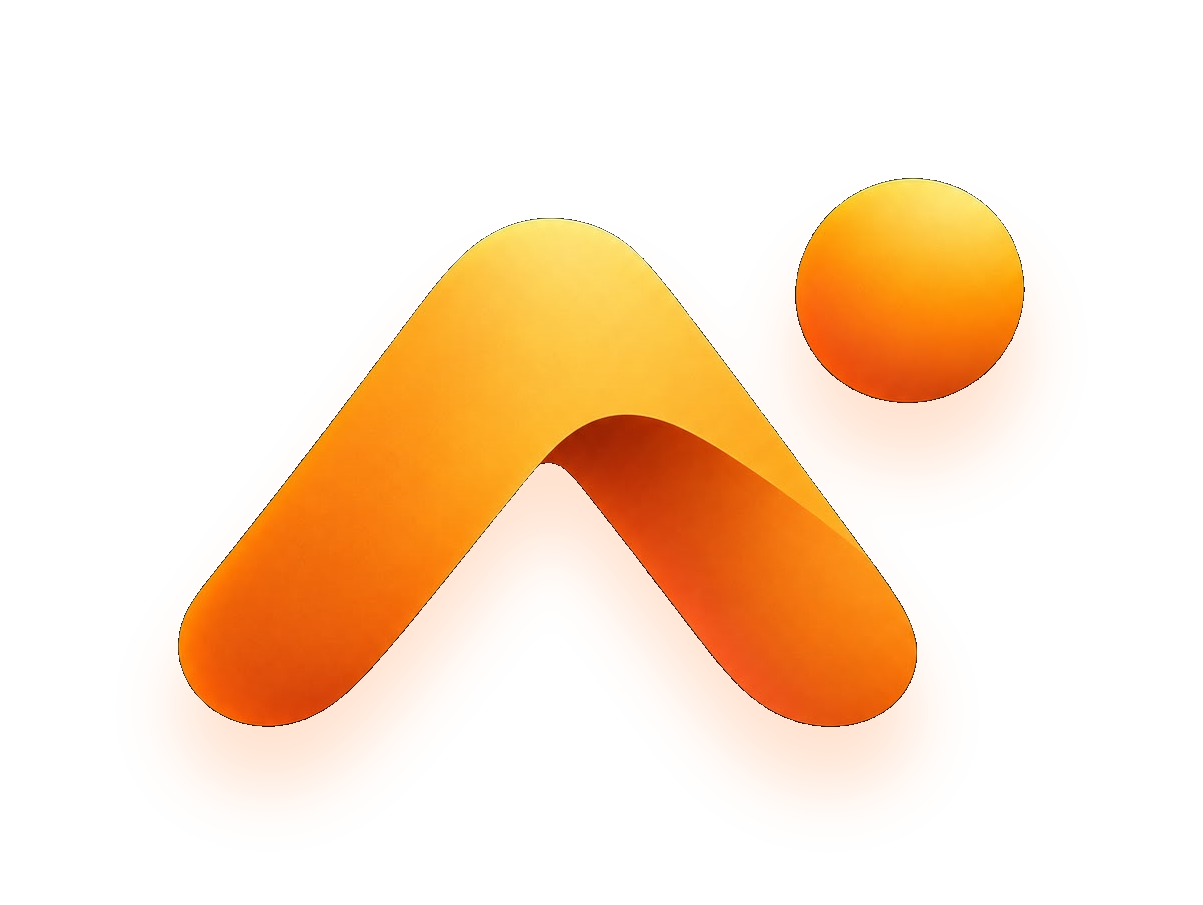
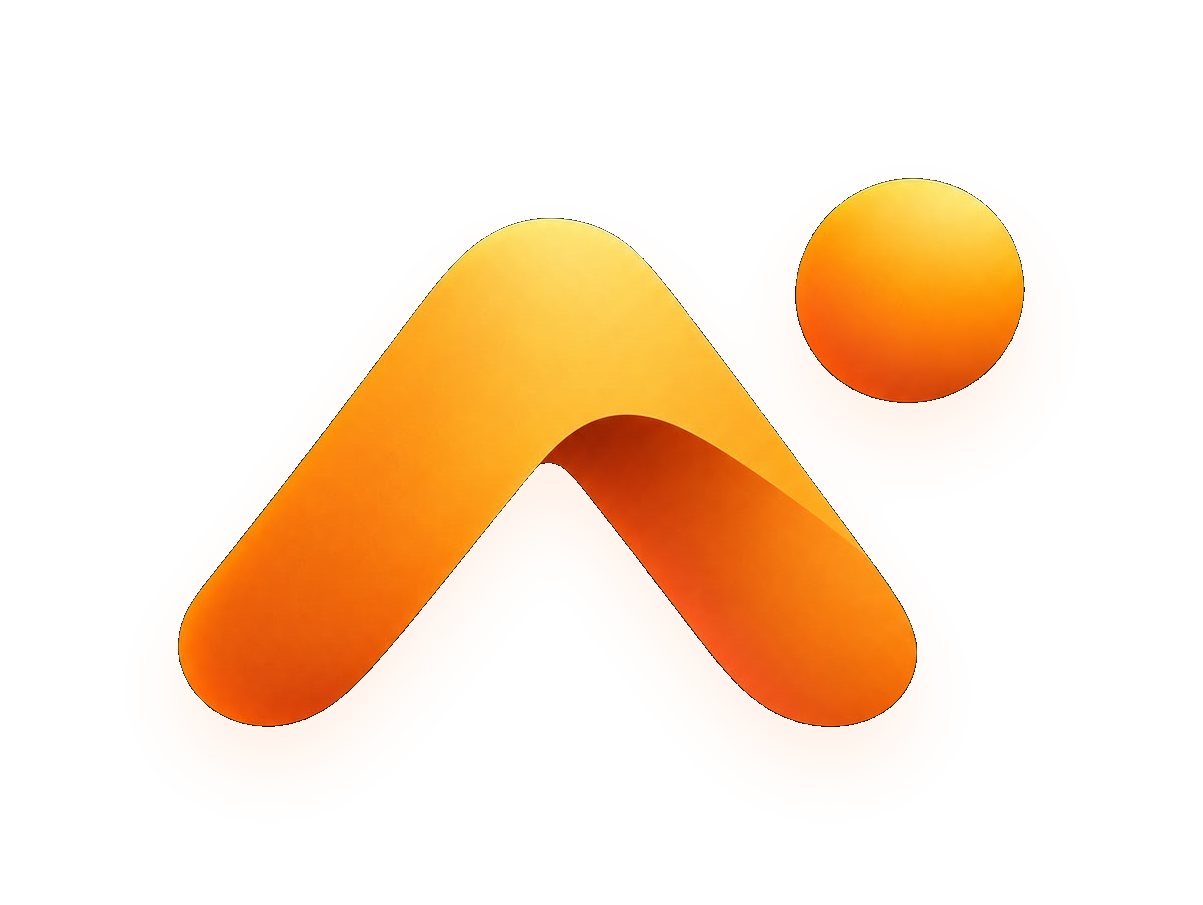
شاشة الانطلاق: الأيقونات بلا ظلّ ووهج الشعار أخفّ
Claude-Session: https://claude.ai/code/session_01Gu4KQke3kiGGssa4SttZnc

diff --git a/apps/mobile/components/launch.tsx b/apps/mobile/components/launch.tsx
@@ -32,13 +32,12 @@ const ICONS = [
 const MARK_RATIO = 905 / 1203;
 
 /*
-  الظلالُ مرسومةٌ في الصور نفسها بهامشٍ حولها (`drop-shadow` في الرسم الأصليّ):
-  ظلُّ آبل على صورةٍ يُقصّ عند حدودها، فكان وهجُ الشعار ينقطع بخطٍّ مستقيم من
-  أسفله ويساره. والهامشُ متناظر فالمركزُ لا يتحرّك.
-  الشعارُ ٨٨٣×٥٨٥ داخل لوحةٍ ١٢٠٣×٩٠٥، والأيقونةُ ٨٨ داخل ١٣٦.
+  وهجُ الشعار مرسومٌ في الصورة نفسها بهامشٍ حولها، أخفَّ من الرسم الأصليّ بطلب
+  المالك: ظلُّ آبل على صورةٍ يُقصّ عند حدودها، فكان ينقطع بخطٍّ مستقيم من أسفله
+  ويساره. والهامشُ متناظر فالمركزُ لا يتحرّك — الشعارُ ٨٨٣×٥٨٥ داخل ١٢٠٣×٩٠٥.
+  والأيقوناتُ بلا ظلّ، بطلبه أيضاً.
 */
 const MARK_PAD = 1203 / 883;
-const ICON_PAD = 136 / 88;
 
 const T = {
   logoIn: 250,
@@ -185,10 +184,8 @@ export function Launch({ onDone }: { onDone: () => void }) {
               key={i}
               style={{
                 position: "absolute",
-                width: iconSize * ICON_PAD,
-                height: iconSize * ICON_PAD,
-                alignItems: "center",
-                justifyContent: "center",
+                width: iconSize,
+                height: iconSize,
                 transform: [{ rotate }],
               }}
             >
@@ -196,8 +193,8 @@ export function Launch({ onDone }: { onDone: () => void }) {
                 source={source}
                 resizeMode="contain"
                 style={{
-                  width: iconSize * ICON_PAD,
-                  height: iconSize * ICON_PAD,
+                  width: iconSize,
+                  height: iconSize,
                   opacity,
                   transform: [{ translateY: lift }, { scale }],
                 }}

diff --git a/CLAUDE.md b/CLAUDE.md
@@ -2163,9 +2163,10 @@
    **في موضعٍ ثابتٍ من الشجرة** — لو تبدّل أبوها حين تجهز الخطوط لبدأت من أوّلها.
    **مرّةً لكل إقلاع** (`useLaunch`) لا لكل عودة: من رجع إلى تطبيقٍ في الذاكرة يُكمل،
    ومن غاب حتى أغلقه النظام يُقلع فيراها — سلوكُ شاشة النظام قبلها. وتحجب اللمس
-   ما دامت ظاهرة، ومن طلب «قلّل الحركة» لا يراها (القاعدة ٣٦). والظلالُ **مرسومةٌ في
-   الصور بهامشٍ حولها** لا `shadow*`: ظلُّ آبل على صورةٍ يُقصّ عند حدودها فينقطع
-   وهجُ الشعار بخطٍّ مستقيم، وفي غيرها يُرسم صندوقاً.
+   ما دامت ظاهرة، ومن طلب «قلّل الحركة» لا يراها (القاعدة ٣٦). ووهجُ الشعار **مرسومٌ في
+   صورته بهامشٍ حولها** لا `shadow*` — ظلُّ آبل على صورةٍ يُقصّ عند حدودها فينقطع
+   بخطٍّ مستقيم، وفي غيرها يُرسم صندوقاً — وأخفُّ من الرسم الأصليّ، والأيقوناتُ
+   بلا ظلّ: **بقرار المالك**.
 
 ## اتجاه التطبيق على الجوّال
 
